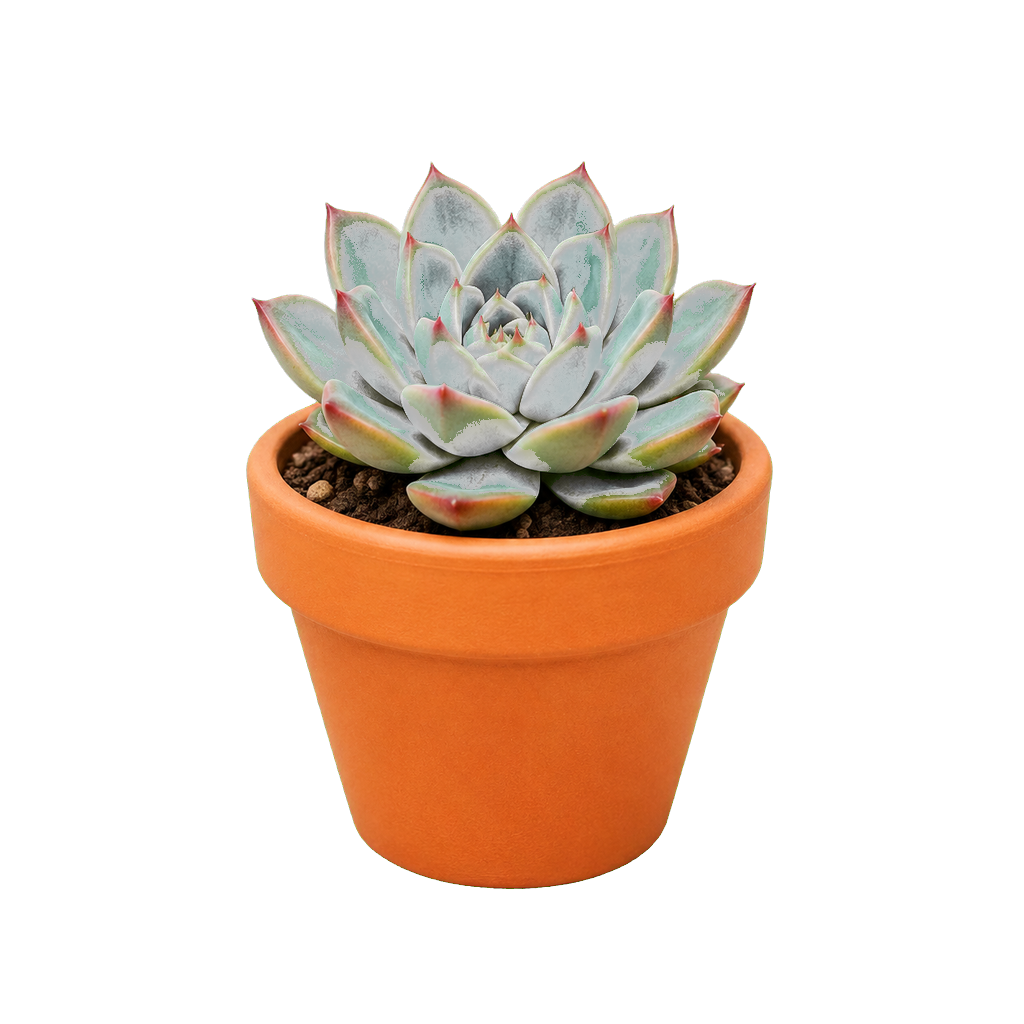
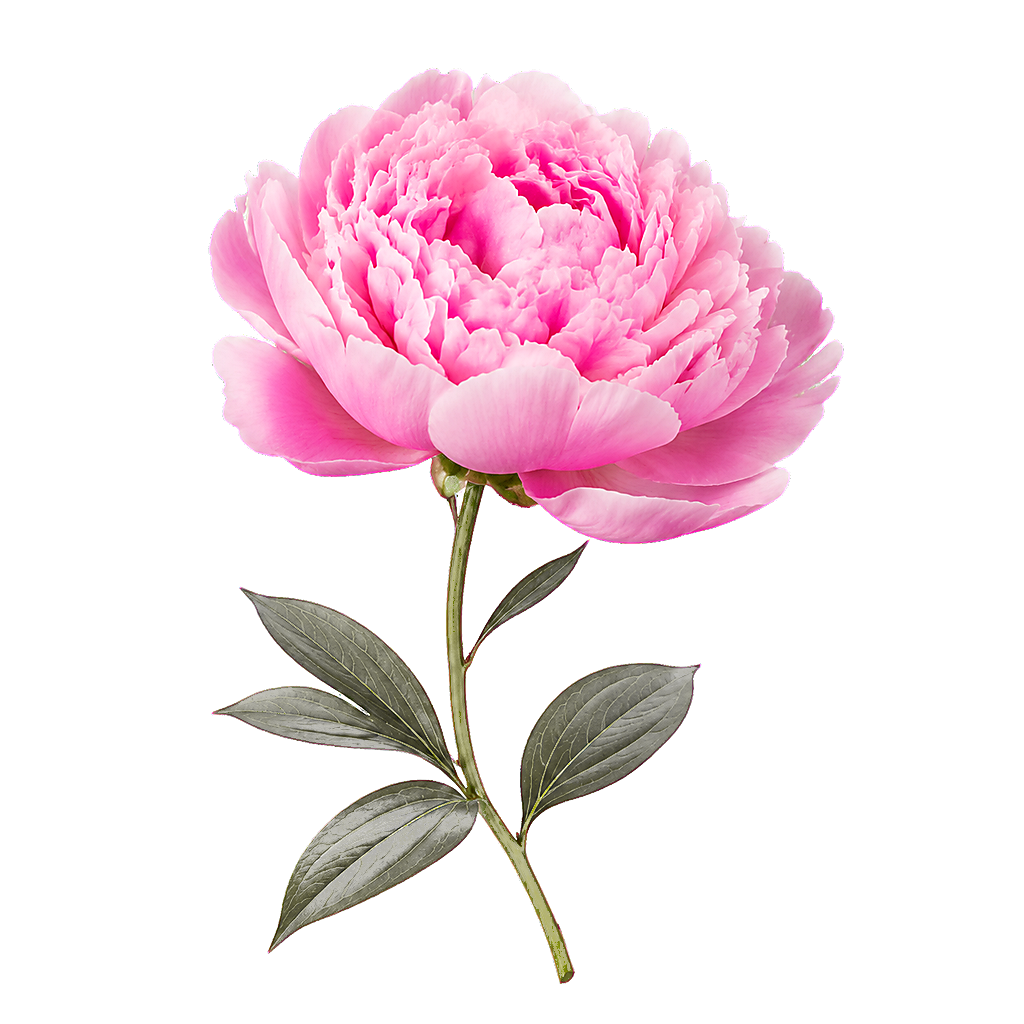
Replace example images with higher-impact ones
- Swap the plain-generate example for a full-width abstract tech hero
  image (2048x1152, quality high) — more visually striking and closer to
  an actual landing-page use case than a product photo.
- Swap the transparent-cutout subject from a succulent to a peony: more
  intricate petal/leaf edges better showcase the chroma-key removal
  quality, while staying clear of complex materials (hair/glass) that
  the docs already flag as poor chroma-key candidates.
- Show the cutout as a source/result pair instead of result-only, so the
  before/after of the technique is visible.

diff --git a/README.md b/README.md
@@ -4,6 +4,8 @@
 [![Python 3](https://img.shields.io/badge/python-3-blue.svg)](https://www.python.org/)
 [![Works with Claude Code](https://img.shields.io/badge/works%20with-Claude%20Code-D97757.svg)](https://code.claude.com)
 
+![Abstract glowing hero image generated by this skill](examples/hero.png)
+
 **Give [Claude Code](https://code.claude.com) image-generation superpowers** — generate and edit real images without ever leaving the conversation.
 
 You're mid-session with Claude Code, building a landing page or an app, and
@@ -12,16 +14,22 @@ out. Claude can write the code around it, but it can't make the image itself
 — so you tab away to a web-based image tool, generate something, download it,
 then drag it back into your project. This skill closes that gap: ask for the
 image in the same conversation, and it lands in your project as a file,
-ready to use.
+ready to use. The banner above was generated by this skill, from a single prompt.
 
 If you're just browsing the Claude Code skills ecosystem: this is also a
 working example of a fairly complete skill — CLI scripts, local persisted
 config, a `/image-c` sub-flow, structured prompt guidance — if you're
 building your own.
 
-| Plain generate | Transparent cutout |
+### Transparent cutouts, generated then locally background-removed
+
+| Generated on a chroma-key background | After local background removal |
 | --- | --- |
-| ![A matte ceramic mug on a wood table](examples/generate.png) | ![A potted succulent, background removed](examples/cutout-transparent.png) |
+| ![A pink peony on a flat green chroma-key background](examples/cutout-source.png) | ![The same peony with a transparent background](examples/cutout-transparent.png) |
+
+`gpt-image-2` can't output a transparent background directly, so this skill
+generates on a flat key color and strips it locally — clean edges even
+around fine petal detail, no fringing.
 
 ## Before / after
 